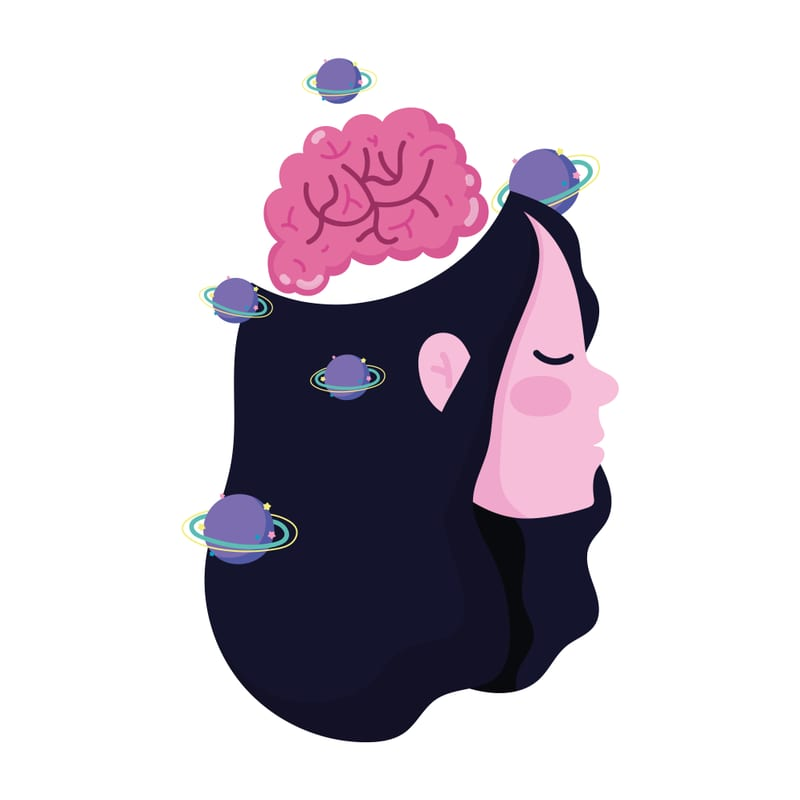
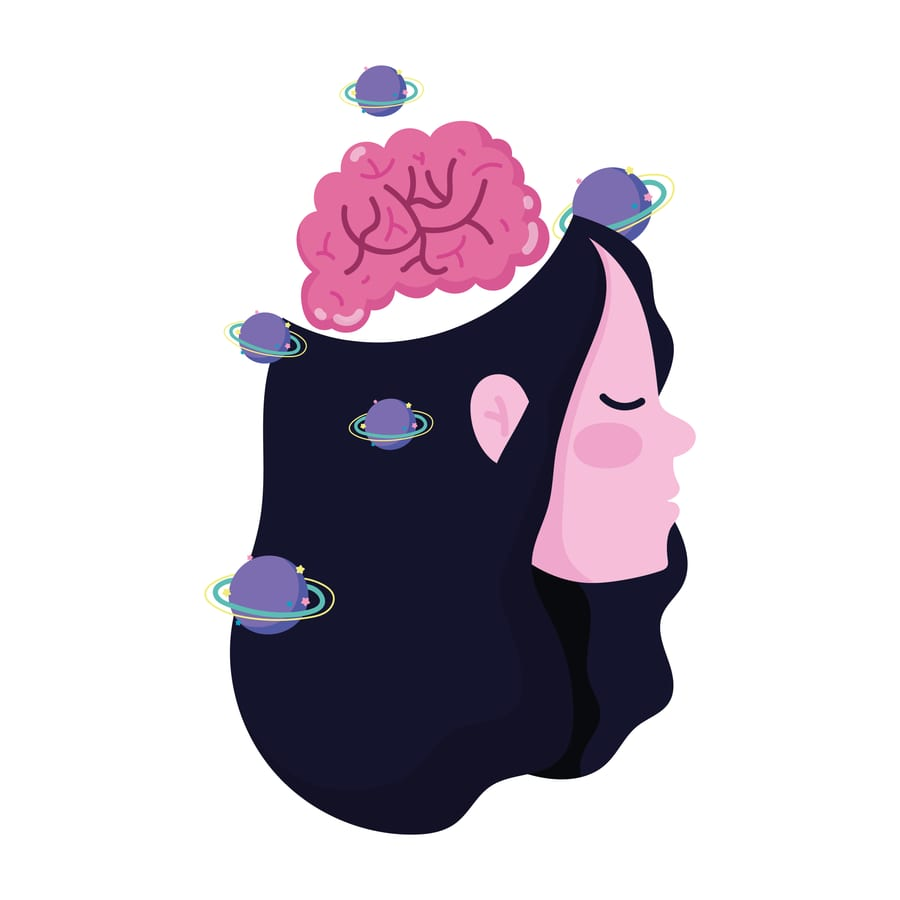
Larger illustrations, step 5 centered, hero rebalanced

diff --git a/frontend/src/styles/global.css b/frontend/src/styles/global.css
@@ -86,7 +86,7 @@
   }
 
   .h-display {
-    font-size: clamp(2.25rem, 1.4rem + 3.2vw, 4rem);
+    font-size: clamp(2.25rem, 1.3rem + 3vw, 3.6rem);
     line-height: 1.08;
     font-weight: 700;
   }
